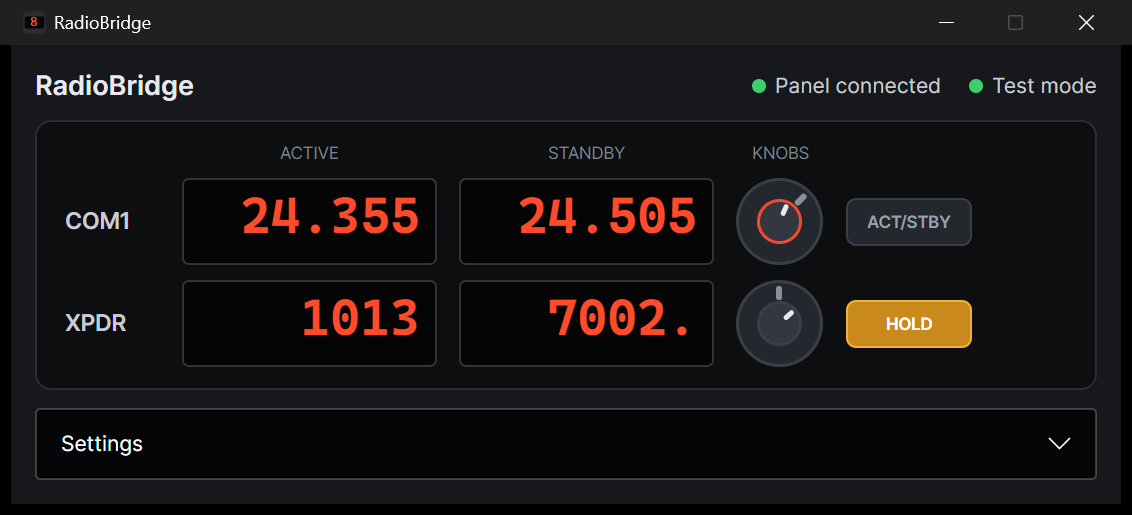
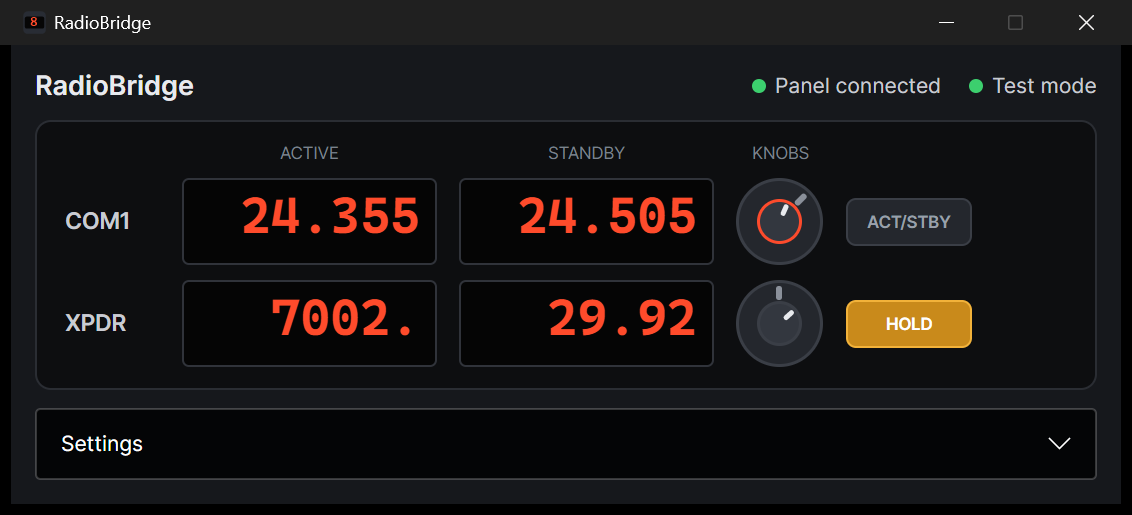
XPDR: squawk left, altimeter right, hold switches hPa/inHg
- the transponder is a single value, so it takes the left display and
  the altimeter moves to the right one; the lit last point still marks
  what the knobs edit, and a press still moves that focus
- holding ACT/STBY on XPDR switches the altimeter between hPa and inHg
- standard pressure moves to a triple press (presses within
  MultiPressGapMs, 500 ms by default, configurable); the first two
  presses toggle the focus there and back, so it ends unchanged

Changed region(s): [[0.4638, 0.5592, 0.6184, 0.6524], [0.2164, 0.5592, 0.371, 0.6524]]

diff --git a/src/RadioBridge.Core/PanelController.cs b/src/RadioBridge.Core/PanelController.cs
@@ -63,6 +63,7 @@ public sealed class PanelController : IDisposable
     private readonly bool[] _editBaro = new bool[2];
     private readonly ITimer?[] _longPressTimers = new ITimer?[2];
     private readonly bool[] _longPressFired = new bool[2];
+    private readonly (int Count, long Last)[] _presses = new (int, long)[2]; // quick presses in a row, per row
     private readonly (string Left, string Right, long Until)?[] _flash = new (string, string, long)?[2];
     private readonly Dictionary<Field, (double Value, long Until)> _pending = new();
     private readonly RowActivity[] _activity = [RowActivity.None, RowActivity.None];
@@ -112,6 +113,7 @@ public sealed class PanelController : IDisposable
                     case SelectorMoved m:
                         _selectors[(int)m.Row] = m.Position;
                         _editBaro[(int)m.Row] = false;
+                        _presses[(int)m.Row] = (0, 0);
                         _log.LogDebug("{Row} selector -> {Position}", m.Row, m.Position);
                         break;
                     case KnobTurned k:
@@ -202,6 +204,11 @@ public sealed class PanelController : IDisposable
     private void OnButtonDown(PanelRow row)
     {
         int i = (int)row;
+        long now = _time.GetTimestamp();
+        var (count, last) = _presses[i];
+        bool quick = count > 0 && _time.GetElapsedTime(last, now).TotalMilliseconds <= _settings.Current.MultiPressGapMs;
+        _presses[i] = (quick ? count + 1 : 1, now);
+
         _longPressFired[i] = false;
         _longPressTimers[i]?.Dispose();
         _longPressTimers[i] = _time.CreateTimer(_ => OnLongPress(row), null,
@@ -224,6 +231,14 @@ public sealed class PanelController : IDisposable
                 _sim.Send(new SwapRadio(radio));
                 _log.LogDebug("Swap {Radio}", radio);
                 break;
+            case Selector.Xpdr when _presses[i].Count >= 3:
+                // Triple press: the first two presses already toggled the edit focus there and back,
+                // so this one leaves it alone and sets standard pressure instead.
+                _presses[i] = (0, 0);
+                _pending.Remove(Field.Baro);
+                _sim.Send(new SetBaroStandard());
+                _log.LogDebug("Baro STD");
+                break;
             case Selector.Xpdr:
                 _editBaro[i] = !_editBaro[i];
                 break;
@@ -238,14 +253,15 @@ public sealed class PanelController : IDisposable
             if (_longPressTimers[i] is null)
                 return; // released just before the timer fired
             _longPressFired[i] = true;
+            _presses[i] = (0, 0); // a hold never counts towards a triple press
             _activity[i] = _activity[i] with { LongPress = true };
 
             switch (_selectors[i])
             {
                 case Selector.Xpdr:
-                    _pending.Remove(Field.Baro);
-                    _sim.Send(new SetBaroStandard());
-                    _log.LogDebug("Baro STD");
+                    var unit = _settings.Current.BaroUnit == BaroUnit.Hectopascal ? BaroUnit.InchesOfMercury : BaroUnit.Hectopascal;
+                    _settings.Update(s => s with { BaroUnit = unit });
+                    _log.LogInformation("Altimeter unit set to {Unit}.", unit);
                     break;
                 case Selector.Com1 or Selector.Com2:
                     var spacing = _settings.Current.ComSpacing == ComSpacing.Khz833 ? ComSpacing.Khz25 : ComSpacing.Khz833;
@@ -303,9 +319,10 @@ public sealed class PanelController : IDisposable
             Selector.Nav2 => (DisplayFormat.Nav(s.Nav2.ActiveKhz), DisplayFormat.Nav(s.Nav2.StandbyKhz)),
             Selector.Adf => (DisplayFormat.Adf(s.GetAdf(row == PanelRow.Upper ? 1 : 2)), ""),
             Selector.Dme => (DisplayFormat.Dme(s.Dme1Nm), DisplayFormat.Dme(s.Dme2Nm)),
+            // Squawk on the left, altimeter on the right; the lit last point marks what the knobs edit.
             Selector.Xpdr => _editBaro[i]
-                ? (DisplayFormat.WithFocus(DisplayFormat.Baro(s.BaroHpa, settings.BaroUnit)), DisplayFormat.Squawk(s.Squawk))
-                : (DisplayFormat.Baro(s.BaroHpa, settings.BaroUnit), DisplayFormat.WithFocus(DisplayFormat.Squawk(s.Squawk))),
+                ? (DisplayFormat.Squawk(s.Squawk), DisplayFormat.WithFocus(DisplayFormat.Baro(s.BaroHpa, settings.BaroUnit)))
+                : (DisplayFormat.WithFocus(DisplayFormat.Squawk(s.Squawk)), DisplayFormat.Baro(s.BaroHpa, settings.BaroUnit)),
             _ => ("", ""),
         };
     }

diff --git a/tests/RadioBridge.FunctionalTests/RadioScenarios.cs b/tests/RadioBridge.FunctionalTests/RadioScenarios.cs
@@ -196,7 +196,7 @@ public sealed class RadioScenarios(AppFixture fx) : IAsyncLifetime
     {
         await App.SelectAsync(Upper, Selector.Xpdr);
         var before = await GivenAsync(s => s.Squawk == 7000, ($"{Radios}transponder_code", 7000));
-        await App.WaitForAsync(s => s.Displays.UpperRight == $"{before.Squawk:0000}.", "the squawk with edit focus");
+        await App.WaitForAsync(s => s.Displays.UpperLeft == $"{before.Squawk:0000}.", "the squawk with edit focus");
 
         await App.TurnAsync(Upper, Knob.Outer, +1);
         await App.TurnAsync(Upper, Knob.Inner, -1);
@@ -206,22 +206,36 @@ public sealed class RadioScenarios(AppFixture fx) : IAsyncLifetime
     }
 
     [Fact]
-    public async Task Altimeter_is_edited_after_a_press_and_reset_to_standard_with_a_long_press()
+    public async Task Altimeter_is_edited_after_a_press_and_reset_to_standard_with_a_triple_press()
     {
         await App.SelectAsync(Upper, Selector.Xpdr);
         var before = await GivenAsync(s => Math.Abs(s.BaroHpa - 1013.2) < 0.1, ("sim/cockpit2/gauges/actuators/barometer_setting_in_hg_pilot", 29.92));
 
         await App.PressAsync(Upper);
-        await App.WaitForAsync(s => s.Displays.UpperLeft == $"{Math.Round(before.BaroHpa)}.", "the altimeter to take the edit focus");
+        await App.WaitForAsync(s => s.Displays.UpperRight == $"{Math.Round(before.BaroHpa)}.", "the altimeter to take the edit focus");
         await App.TurnAsync(Upper, Knob.Inner, +1, detents: 2);
         double expected = Math.Round(before.BaroHpa) + 2;
         await App.WaitForAsync(s => Math.Abs(s.Sim.State.BaroHpa - expected) < 0.2, $"altimeter {expected} hPa");
 
-        await App.PressAsync(Upper, holdMs: 800);
-        await App.WaitForAsync(s => Math.Abs(s.Sim.State.BaroHpa - 1013.25) < 0.2, "standard pressure");
+        await Task.Delay(700); // let the earlier press fall out of the triple-press window
+        for (int i = 0; i < 3; i++)
+            await App.PressAsync(Upper, holdMs: 60); // triple press: standard pressure
+        await App.WaitForAsync(s => Math.Abs(s.Sim.State.BaroHpa - 1013.25) < 0.2 && s.Displays.UpperRight == "1013.", "standard pressure, still editing the altimeter");
+    }
 
-        await App.PutSettingsAsync(fx.InitialSettings with { BaroUnit = BaroUnit.InchesOfMercury });
-        await App.WaitForAsync(s => s.Displays.UpperLeft == "29.92.", "the altimeter in inHg");
+    [Fact]
+    public async Task Hold_on_xpdr_switches_the_altimeter_unit()
+    {
+        await App.SelectAsync(Upper, Selector.Xpdr);
+        var before = await GivenAsync(s => Math.Abs(s.BaroHpa - 1013.2) < 0.1, ("sim/cockpit2/gauges/actuators/barometer_setting_in_hg_pilot", 29.92));
+        await App.WaitForAsync(s => s.Displays.UpperRight == DisplayFormat.Baro(before.BaroHpa, BaroUnit.Hectopascal), "the altimeter in hPa");
+
+        await App.PressAsync(Upper, holdMs: 800);
+
+        string inHg = DisplayFormat.Baro(before.BaroHpa, BaroUnit.InchesOfMercury);
+        var state = await App.WaitForAsync(s => s.Settings.BaroUnit == BaroUnit.InchesOfMercury && s.Displays.UpperRight == inHg, $"the altimeter in inHg ({inHg})");
+        Assert.Equal($"{state.Sim.State.Squawk:0000}.", state.Displays.UpperLeft); // the knobs still edit the squawk
+        Assert.Equal(before.BaroHpa, state.Sim.State.BaroHpa, 1);                  // the simulator's setting is untouched
     }
 
     [Fact]

diff --git a/tests/RadioBridge.Tests/PanelControllerTests.cs b/tests/RadioBridge.Tests/PanelControllerTests.cs
@@ -148,26 +148,62 @@ public sealed class PanelControllerTests : IDisposable
     public void Xpdr_knobs_edit_squawk_and_button_switches_to_baro()
     {
         _panel.Raise(new SelectorMoved(PanelRow.Upper, Selector.Xpdr));
-        Assert.Equal(("1013", "7000."), (_panel.Shown.UpperLeft, _panel.Shown.UpperRight));
+        Assert.Equal(("7000.", "1013"), (_panel.Shown.UpperLeft, _panel.Shown.UpperRight));
 
         _panel.Raise(new KnobTurned(PanelRow.Upper, Knob.Outer, 1));
         Assert.Equal(new SetSquawk(7100), _sim.Sent[^1]);
 
         Press(PanelRow.Upper, TimeSpan.FromMilliseconds(100));
-        Assert.Equal("1013.", _panel.Shown.UpperLeft);
+        Assert.Equal("1013.", _panel.Shown.UpperRight);
         _time.Advance(TimeSpan.FromSeconds(1));
         _panel.Raise(new KnobTurned(PanelRow.Upper, Knob.Inner, 1));
         Assert.Equal(new SetBaro(1014), _sim.Sent[^1]);
     }
 
     [Fact]
-    public void Long_press_on_xpdr_sets_standard_pressure()
+    public void Hold_on_xpdr_switches_the_altimeter_unit()
+    {
+        _panel.Raise(new SelectorMoved(PanelRow.Lower, Selector.Xpdr));
+
+        Press(PanelRow.Lower, TimeSpan.FromMilliseconds(700));
+        Assert.Equal(BaroUnit.InchesOfMercury, _settings.Store.Current.BaroUnit);
+        Assert.Equal(("7000.", "29.92"), (_panel.Shown.LowerLeft, _panel.Shown.LowerRight)); // still editing the squawk
+        Assert.Empty(_sim.Sent); // nothing for the simulator: only the display unit changed
+
+        Press(PanelRow.Lower, TimeSpan.FromMilliseconds(700));
+        Assert.Equal(BaroUnit.Hectopascal, _settings.Store.Current.BaroUnit);
+        Assert.Equal("1013", _panel.Shown.LowerRight);
+    }
+
+    [Fact]
+    public void Triple_press_on_xpdr_sets_standard_pressure_and_keeps_the_edit_focus()
     {
         _panel.Raise(new SelectorMoved(PanelRow.Upper, Selector.Xpdr));
-        Press(PanelRow.Upper, TimeSpan.FromMilliseconds(700));
+
+        for (int i = 0; i < 3; i++)
+        {
+            Press(PanelRow.Upper, TimeSpan.FromMilliseconds(80));
+            _time.Advance(TimeSpan.FromMilliseconds(100));
+        }
 
         Assert.IsType<SetBaroStandard>(_sim.Sent.Single());
-        Assert.Equal("7000.", _panel.Shown.UpperRight); // still editing the squawk
+        Assert.Equal("7000.", _panel.Shown.UpperLeft);
+        Assert.Equal(BaroUnit.Hectopascal, _settings.Store.Current.BaroUnit);
+    }
+
+    [Fact]
+    public void Slow_presses_on_xpdr_only_move_the_edit_focus()
+    {
+        _panel.Raise(new SelectorMoved(PanelRow.Upper, Selector.Xpdr));
+
+        for (int i = 0; i < 3; i++)
+        {
+            Press(PanelRow.Upper, TimeSpan.FromMilliseconds(80));
+            _time.Advance(TimeSpan.FromMilliseconds(700));
+        }
+
+        Assert.Equal(BaroUnit.Hectopascal, _settings.Store.Current.BaroUnit);
+        Assert.Equal(("7000", "1013."), (_panel.Shown.UpperLeft, _panel.Shown.UpperRight)); // three toggles: altimeter
     }
 
     [Fact]

diff --git a/src/RadioBridge.Core/Settings/BridgeSettings.cs b/src/RadioBridge.Core/Settings/BridgeSettings.cs
@@ -20,6 +20,9 @@ public sealed record BridgeSettings
 
     public int LongPressMs { get; init; } = 600;
 
+    /// <summary>Most time between ACT/STBY presses that still count as one quick series (triple press).</summary>
+    public int MultiPressGapMs { get; init; } = 500;
+
     /// <summary>Drive the panel with built-in test radios while no simulator is connected.</summary>
     public bool TestMode { get; init; }
 

diff --git a/src/RadioBridge.Desktop/MainViewModel.cs b/src/RadioBridge.Desktop/MainViewModel.cs
@@ -108,6 +108,12 @@ public sealed class MainViewModel : INotifyPropertyChanged
         set => Update(s => s with { LongPressMs = ToInt(value, 600) });
     }
 
+    public decimal? MultiPressGapMs
+    {
+        get => S.MultiPressGapMs;
+        set => Update(s => s with { MultiPressGapMs = ToInt(value, 500) });
+    }
+
     public bool TestMode
     {
         get => TestModeForced || S.TestMode;

diff --git a/README.md b/README.md
@@ -119,14 +119,15 @@ Each row of the panel works on its own. Turn its selector to choose what that ro
 | **NAV1 / NAV2** | active | standby | standby ±1 MHz | standby ±50 kHz | swap | – |
 | **ADF** | ADF1 (upper row) or ADF2 (lower row) | – | ±10 kHz | ±1 kHz | – | – |
 | **DME** | DME1 distance | DME2 distance | – | – | – | – |
-| **XPDR** | altimeter | squawk | first two squawk digits | last two squawk digits | edit altimeter instead (outer ±10, inner ±1) and back | standard pressure |
+| **XPDR** | squawk | altimeter | first two squawk digits | last two squawk digits | edit the altimeter instead (outer ±10, inner ±1) and back | switch hPa / inHg |
 
 Some details:
 
 - **Inner knobs wrap inside the MHz** and **outer knobs wrap at the band edge** (COM 118–136 MHz, NAV
   108–117 MHz), like real radio knobs.
 - In XPDR mode, a **lit decimal point at the end** of a display marks the value the knobs edit, e.g.
-  `7000.` (squawk) or `1013.` (altimeter).
+  `7000.` (squawk) or `1013.` (altimeter). **Press ACT/STBY three times quickly** (each press within
+  500 ms of the last) to set the altimeter to standard pressure. The knobs keep editing the same value.
 - **Fast spins accelerate.** Detents less than 90 ms apart count ×3, and less than 35 ms ×8. Both
   limits can be changed in the settings.
 - When you change a frequency, the panel shows your new value right away and keeps it for under a
@@ -181,9 +182,10 @@ Settings are in the window and are saved immediately to `settings.json` in the d
 |---|---|---|
 | `ComSpacing` | `Khz833` | Inner COM knob steps: `Khz833` or `Khz25` (hold ACT/STBY on COM to toggle) |
 | `CompactComDisplay` | `true` | `23.405` style; `false` shows `123.40` |
-| `BaroUnit` | `Hectopascal` | Altimeter in `Hectopascal` or `InchesOfMercury` |
+| `BaroUnit` | `Hectopascal` | Altimeter in `Hectopascal` or `InchesOfMercury` (hold ACT/STBY on XPDR to switch) |
 | `Acceleration` | on, 35 ms ×8, 90 ms ×3 | Knob acceleration thresholds and multipliers |
 | `LongPressMs` | `600` | How long ACT/STBY must be held for a long press |
+| `MultiPressGapMs` | `500` | Most time between ACT/STBY presses that still count towards a triple press |
 | `TestMode` | `false` | Built-in test radios while no simulator is connected |
 | `CloseToTray` | `false` | Closing the window keeps RadioBridge running in the tray |
 | `StartInTray` | `false` | Start hidden in the tray (minimized if `CloseToTray` is off) |
@@ -205,6 +207,11 @@ RadioBridge [options]
 
 On Windows, the console modes (`--headless`, `--panel-test`, `--help`) print to the terminal they
 were started from.
+
+Only **one RadioBridge** runs at a time, in any mode. Launching it again brings the running window to
+the front, and a second `--headless` or `--panel-test` refuses to start. The one exception is a test
+run with both `--automation` and `--no-panel`, which never touches the panel (see
+[docs/testing.md](docs/testing.md)).
 
 ## Troubleshooting
 

diff --git a/docs/testing.md b/docs/testing.md
@@ -18,8 +18,9 @@ on the displays and then prints every knob, selector and button event for 20 sec
 
 ## Functional tests
 
-The functional suite starts the real app the same way a user would. It runs with the window
-minimized (or `--headless` when `RADIOBRIDGE_FT_UI=headless`, and always on Linux and macOS), plus:
+The functional suite starts the real app the same way a user would. It runs `--headless` by default:
+a visible window could be closed by someone at the desk, which quits the app mid-run. Set
+`RADIOBRIDGE_FT_UI=window` to run the same suite with the window minimized (Windows only). It adds:
 
 ```text
 --no-panel --automation <free port> --data-dir tests/RadioBridge.FunctionalTests/bin/<cfg>/net10.0/runs/<timestamp>
@@ -62,7 +63,7 @@ there first when a scenario fails. The failure message also includes the last di
 - A long press on COM toggles 8.33/25 kHz and flashes the new spacing.
 - NAV2 on the lower row tunes, wraps and swaps.
 - ADF tuning, the DME display (emulator only), transponder digit pairs.
-- Altimeter editing, standard pressure, and the inHg display.
+- Altimeter editing with standard pressure on a triple press, and the hold switching hPa and inHg.
 - The classic COM display setting applies immediately.
 - Knob turns, a held ACT/STBY and a long press are reported for the window's knob and switch view.
 - Test mode drives the panel without a simulator and steps aside when one connects (emulator only).
